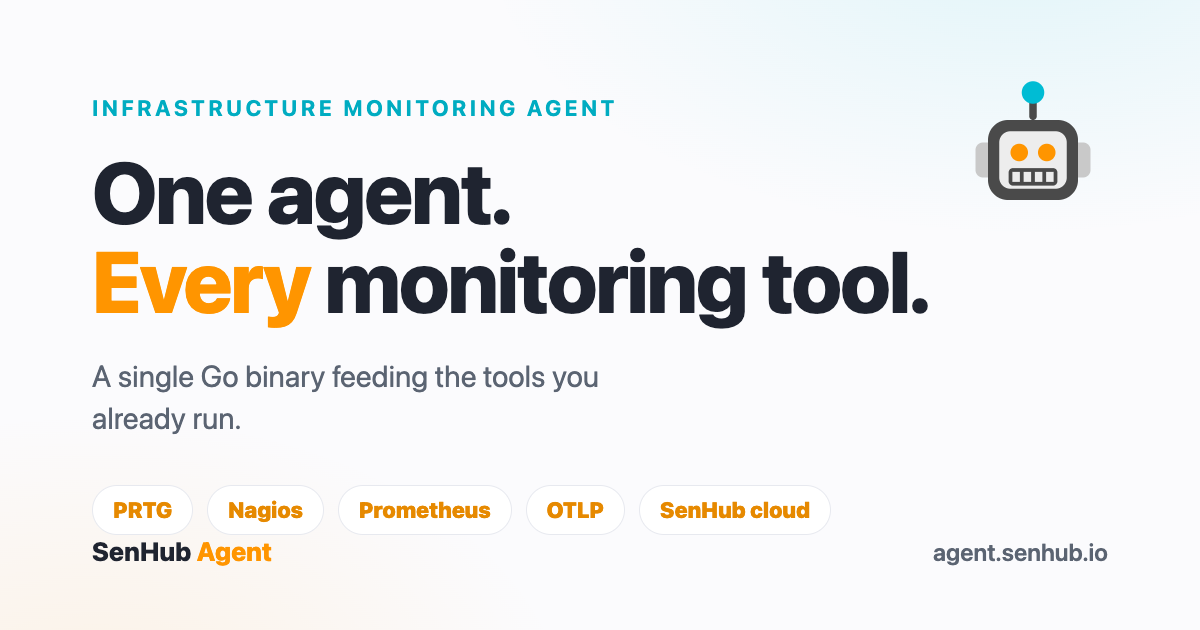
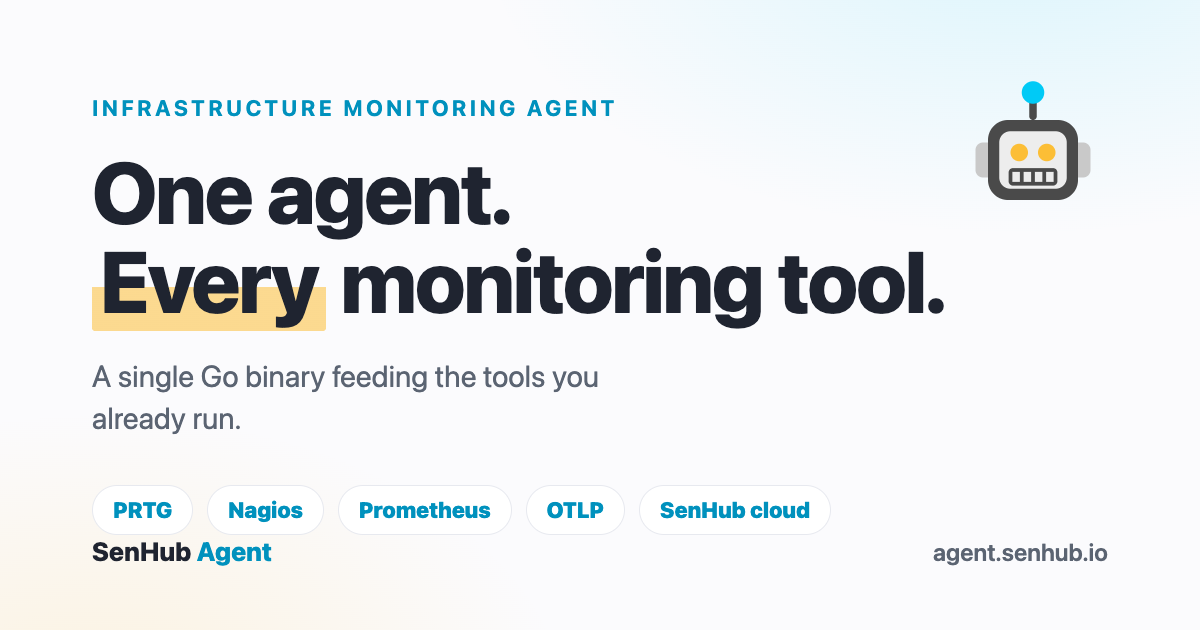
fix: align palette with senhub.io brand colors
Replace the placeholder iOS orange (#ff9500) with the real SenHub
amber (#fcbe36) and bright cyan (#00caf6) sampled from senhub.io.
Amber is used as a fill (buttons, highlight marker) with dark text
to match the main site; cyan carries links and text accents.
Re-rendered the OG image accordingly.

diff --git a/index.html b/index.html
@@ -41,18 +41,19 @@
     <meta name="twitter:image" content="https://agent.senhub.io/assets/og-image.png?v=1" />
 
     <style>
-      /* ---- Palette: SenHub — clean light surface, anthracite ink, orange accent, cyan secondary ---- */
+      /* ---- Palette: SenHub brand (senhub.io) — amber fill, cyan accent ---- */
       :root {
         --bg: #fbfbfd;          /* near-white surface */
         --panel: #ffffff;       /* raised panels */
-        --ink: #1f2430;         /* anthracite body text */
+        --ink: #212529;         /* anthracite body text */
         --muted: #5b6472;       /* secondary text */
-        --accent: #ff9500;      /* SenHub orange */
-        --accent-dark: #e68900; /* hover state */
-        --cyan: #00bcd4;        /* SenHub cyan secondary */
-        --cyan-dark: #00acc1;
+        --accent: #fcbe36;      /* SenHub amber — buttons / highlights */
+        --accent-dark: #f0ad17; /* hover state */
+        --accent-ink: #212529;  /* dark text on amber */
+        --cyan: #00caf6;        /* SenHub cyan — links / accents */
+        --cyan-dark: #0091bd;   /* legible cyan for text */
         --line: #e7e9ef;        /* hairline borders */
-        --robot: #4a4a4a;       /* robot body / strong ink */
+        --robot: #4c4949;       /* robot body / strong ink */
       }
 
       *,
@@ -82,7 +83,7 @@
       }
 
       a {
-        color: var(--accent-dark);
+        color: var(--cyan-dark);
         text-decoration: none;
       }
 
@@ -119,7 +120,7 @@
       }
 
       nav a:hover {
-        color: var(--accent-dark);
+        color: var(--cyan-dark);
       }
 
       section {
@@ -151,7 +152,9 @@
       }
 
       .hero h1 .hl {
-        color: var(--accent);
+        background: linear-gradient(transparent 56%, rgba(252, 190, 54, 0.55) 56%);
+        padding: 0 0.06em;
+        border-radius: 2px;
       }
 
       .hero .subtagline {
@@ -181,7 +184,8 @@
 
       .btn-primary {
         background: var(--accent);
-        color: #fff;
+        color: var(--accent-ink);
+        border-color: var(--accent);
       }
 
       .btn-primary:hover {
@@ -192,13 +196,14 @@
 
       .btn-secondary {
         background: transparent;
-        color: var(--accent-dark);
+        color: var(--cyan-dark);
+        border-color: var(--cyan);
       }
 
       .btn-secondary:hover {
-        background: var(--accent);
-        color: #fff;
-        border-color: var(--accent);
+        background: var(--cyan);
+        color: #062d38;
+        border-color: var(--cyan);
         text-decoration: none;
       }
 
@@ -304,7 +309,7 @@
       }
 
       .sink b {
-        color: var(--accent-dark);
+        color: var(--cyan-dark);
         font-weight: 700;
       }
 
@@ -367,7 +372,7 @@
       .tier code {
         font-family: ui-monospace, SFMono-Regular, "SF Mono", Menlo, monospace;
         font-size: 0.82rem;
-        background: rgba(0, 188, 212, 0.08);
+        background: rgba(0, 202, 246, 0.10);
         color: var(--cyan-dark);
         padding: 3px 9px;
         border-radius: 6px;
@@ -393,7 +398,7 @@
       }
 
       footer a:hover {
-        color: var(--accent-dark);
+        color: var(--cyan-dark);
       }
 
       footer .copy {

diff --git a/assets/og-image.html b/assets/og-image.html
@@ -8,8 +8,8 @@
       body {
         font-family: system-ui, -apple-system, "Segoe UI", Roboto, sans-serif;
         background:
-          radial-gradient(900px 500px at 85% -10%, rgba(0, 188, 212, 0.10), transparent 60%),
-          radial-gradient(800px 520px at 8% 115%, rgba(255, 149, 0, 0.10), transparent 60%),
+          radial-gradient(900px 500px at 85% -10%, rgba(0, 202, 246, 0.12), transparent 60%),
+          radial-gradient(800px 520px at 8% 115%, rgba(252, 190, 54, 0.16), transparent 60%),
           #fbfbfd;
         color: #1f2430;
         display: flex;
@@ -24,7 +24,7 @@
         font-weight: 700;
         letter-spacing: 0.16em;
         text-transform: uppercase;
-        color: #00acc1;
+        color: #0091bd;
         margin-bottom: 26px;
       }
       h1 {
@@ -35,7 +35,11 @@
         max-width: 16ch;
         margin-bottom: 30px;
       }
-      h1 .hl { color: #ff9500; }
+      h1 .hl {
+        background: linear-gradient(transparent 56%, rgba(252, 190, 54, 0.55) 56%);
+        padding: 0 8px;
+        border-radius: 3px;
+      }
       p {
         font-size: 30px;
         color: #5b6472;
@@ -56,7 +60,7 @@
         border: 1px solid #e7e9ef;
         background: #fff;
       }
-      .chip b { color: #e68900; }
+      .chip b { color: #0091bd; }
       .brand {
         position: absolute;
         left: 92px;
@@ -65,7 +69,7 @@
         font-weight: 800;
         color: #1f2430;
       }
-      .brand span { color: #ff9500; }
+      .brand span { color: #0091bd; }
       .domain {
         position: absolute;
         right: 92px;
@@ -79,13 +83,13 @@
   <body>
     <svg class="robot" viewBox="0 0 120 120" xmlns="http://www.w3.org/2000/svg">
       <rect x="57" y="20" width="6" height="20" rx="3" fill="#4a4a4a"/>
-      <circle cx="60" cy="18" r="9" fill="#00bcd4"/>
+      <circle cx="60" cy="18" r="9" fill="#00caf6"/>
       <rect x="14" y="58" width="16" height="28" rx="6" fill="#c9c9c9"/>
       <rect x="90" y="58" width="16" height="28" rx="6" fill="#c9c9c9"/>
       <rect x="24" y="40" width="72" height="64" rx="16" fill="#4a4a4a"/>
       <rect x="33" y="49" width="54" height="46" rx="9" fill="#ededed"/>
-      <circle cx="49" cy="66" r="7" fill="#ff9500"/>
-      <circle cx="71" cy="66" r="7" fill="#ff9500"/>
+      <circle cx="49" cy="66" r="7" fill="#fcbe36"/>
+      <circle cx="71" cy="66" r="7" fill="#fcbe36"/>
       <rect x="42" y="80" width="36" height="11" rx="2" fill="none" stroke="#4a4a4a" stroke-width="3"/>
       <line x1="51" y1="80" x2="51" y2="91" stroke="#4a4a4a" stroke-width="3"/>
       <line x1="60" y1="80" x2="60" y2="91" stroke="#4a4a4a" stroke-width="3"/>

diff --git a/404.html b/404.html
@@ -23,7 +23,7 @@
       h1 { font-size: 1.5rem; margin: 0 0 8px; }
       p { color: #5b6472; margin: 0 0 20px; }
       a {
-        color: #e68900;
+        color: #0091bd;
         font-weight: 600;
         text-decoration: none;
       }
